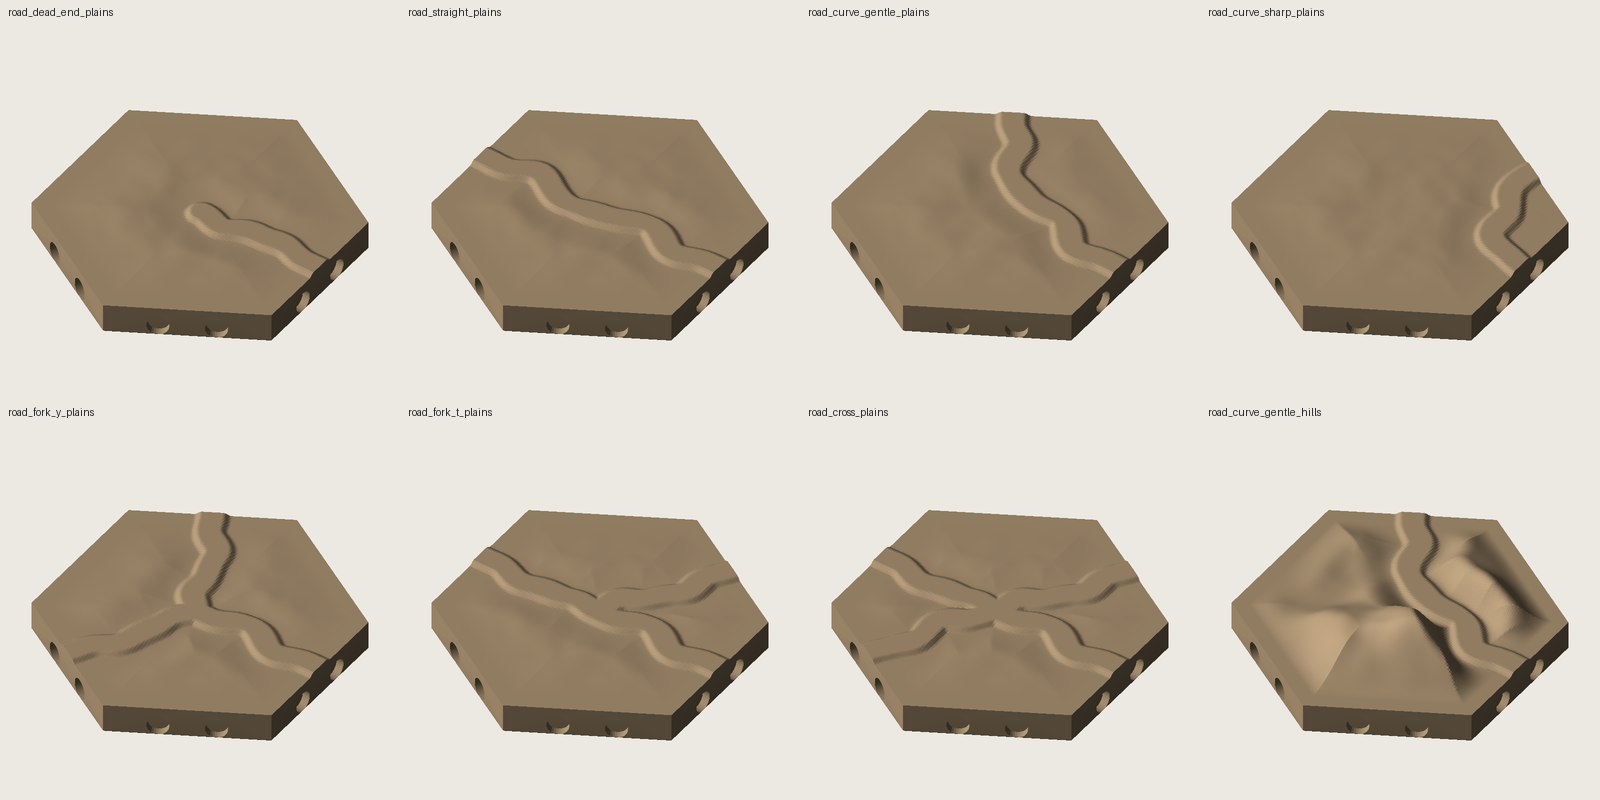
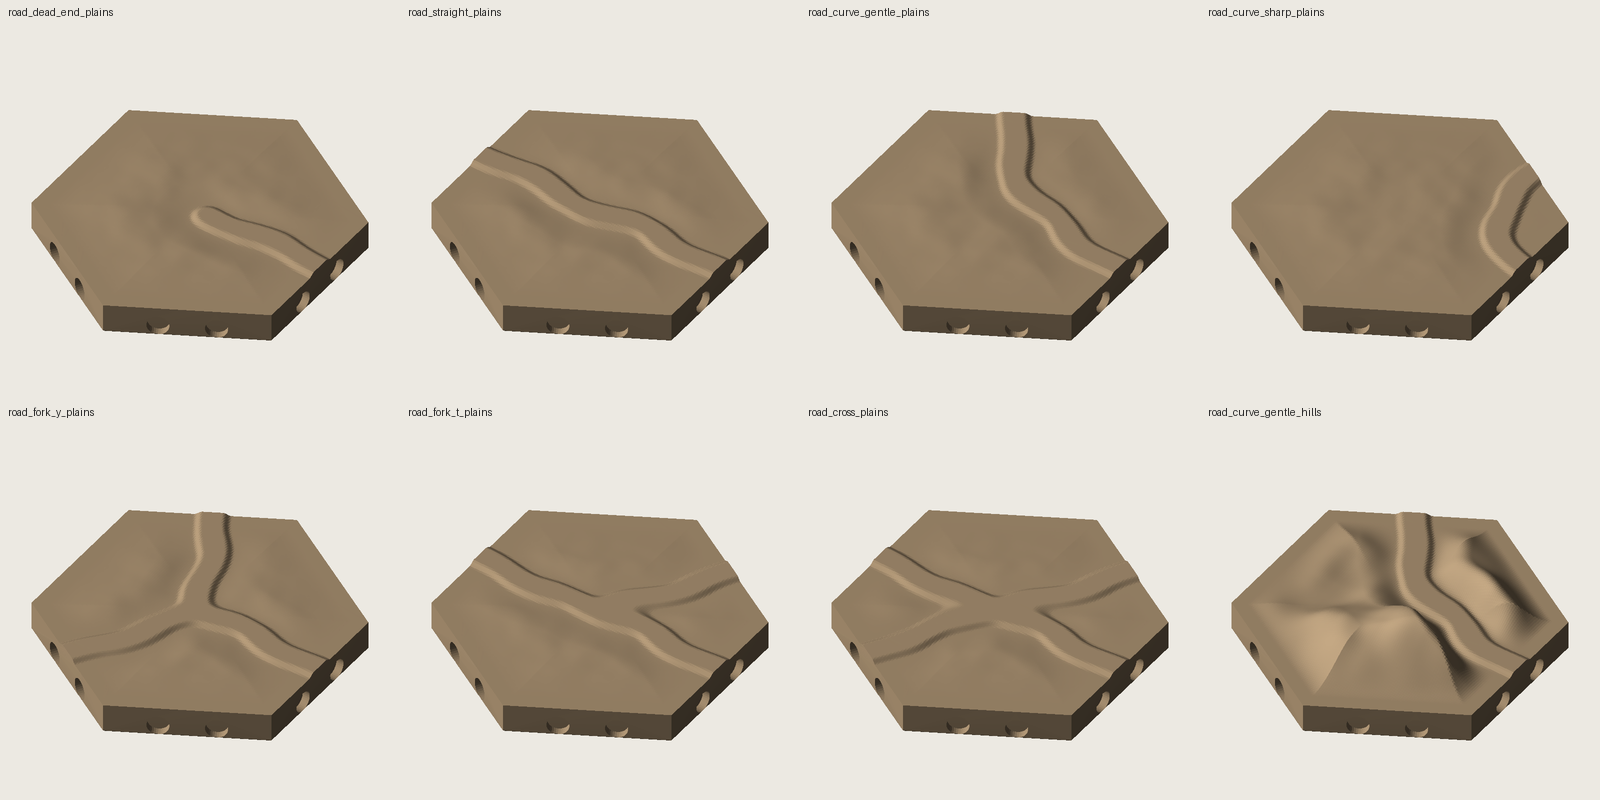
Smooth river and road bends (no sharp points or creases)
Claude-Session: https://claude.ai/code/session_01VaSFg4twwAgixgkXK4p2Ey

diff --git a/hexlib.py b/hexlib.py
@@ -12,6 +12,7 @@ import numpy as np
 import trimesh
 from manifold3d import Manifold, CrossSection, Mesh, OpType
 from scipy.interpolate import RegularGridInterpolator
+from scipy.ndimage import gaussian_filter1d, gaussian_filter
 
 DEG = np.pi / 180.0
 
@@ -183,12 +184,14 @@ class PathNet:
                 nrm = np.stack([-tang[:, 1], tang[:, 0]], 1)
                 ph = rng.uniform(0, 2 * np.pi, 4)
                 wig = (2.3 * np.sin(2 * np.pi * s / rng.uniform(15, 22) + ph[0])
-                       + 0.7 * np.sin(2 * np.pi * s / rng.uniform(7.0, 10.0) + ph[1]))
+                       + 0.4 * np.sin(2 * np.pi * s / rng.uniform(8.0, 11.0) + ph[1]))
                 hd = hexdist(dense[:, 0], dense[:, 1])
                 taper = smoothstep((a - hd - 1.0) / 8.0)
                 if center_fixed or len(exits) == 1:        # junctions and dead ends stay put
                     taper = taper * smoothstep(np.hypot(*(dense - poly[-1]).T) / 6.0)
                 dense = dense + (organic * wig * taper)[:, None] * nrm
+                # round off any tight kinks (keeps the radial run-in at the edge: it is straight anyway)
+                dense = gaussian_filter1d(dense, sigma=2.2 / 0.4, axis=0, mode='nearest')
                 wsc = 1.0 + wamp * (0.65 * np.sin(2 * np.pi * s / rng.uniform(8, 13) + ph[2])
                                     + 0.35 * np.sin(2 * np.pi * s / rng.uniform(4, 6) + ph[3])) * taper
             else:

diff --git a/tiles.py b/tiles.py
@@ -4,6 +4,7 @@ tiles.py - terrain, roads/rivers, feature structures and the tile builder.
 import numpy as np
 import trimesh
 from scipy.interpolate import RegularGridInterpolator
+from scipy.ndimage import gaussian_filter
 from manifold3d import Manifold, CrossSection
 
 from hexlib import *
@@ -455,6 +456,7 @@ def build_tile(terrain='plains', road=None, river=None, feature=None, seed=0,
     Z = p.base + level + h
     if c.road is not None:
         d, _ = c.road.query(c.X, c.Y)
+        d = gaussian_filter(d, 0.9 / p.res, mode='nearest')      # no creases on inner bends
         if feature == 'dungeon':      # approach cut only in front of the facade
             flat = 1 - smoothstep((c.X - (XF + 1.0)) / 1.0) * (1 - smoothstep((np.abs(c.Y) - 4.2) / 2.0))
         else:
@@ -465,6 +467,7 @@ def build_tile(terrain='plains', road=None, river=None, feature=None, seed=0,
         rm = 0.0
     if c.river is not None:
         d, _ = c.river.query(c.X, c.Y)
+        d = gaussian_filter(d, 0.9 / p.res, mode='nearest')      # no creases on inner bends
         hw = p.river_w / 2
         valley = smoothstep((d - hw) / 7.0)
         Z = p.base + level + (Z - p.base - level) * valley
